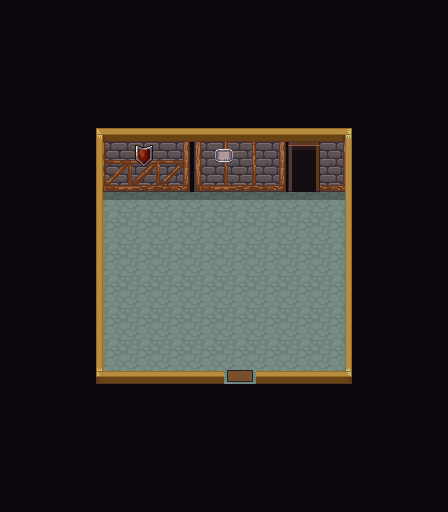
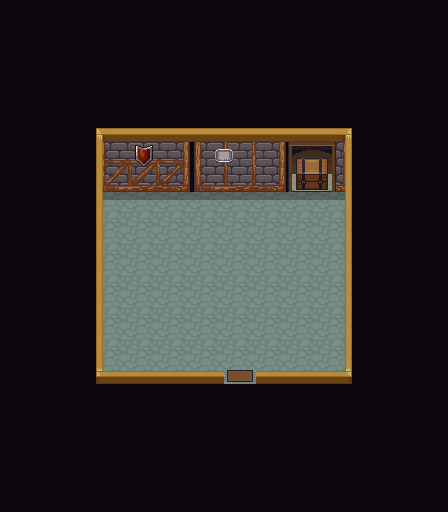
Sync from private repo

Changed region(s): [[0.625, 0.25, 0.75, 0.375]]

diff --git a/client/src/world/Town.js b/client/src/world/Town.js
@@ -56,6 +56,15 @@ export class Town {
         this.things = data.things.map(([frame, left, top, foot]) =>
             scene.add.image(left, top, `town-${key}-things`, String(frame)).setOrigin(0, 0).setData('foot', foot));
 
+        // Treasure seen through a doorway catches the light now and then
+        this.glints = scene.textures.exists('fx-star') ? (data.glints || []).map(([x, y], i) => {
+            const glint = scene.add.sprite(x, y, 'fx-star', 0).setDepth(DEPTH.features).setAlpha(0).setScale(1.5);
+            if (scene.anims.exists('fx-twinkle')) glint.play('fx-twinkle');
+            scene.tweens.add({ targets: glint, alpha: 1, scale: 2.2, duration: 240, hold: 160, yoyo: true,
+                repeat: -1, repeatDelay: 2400 + i * 500, delay: 700 });
+            return glint;
+        }) : [];
+
         this.folk = [];
         this._waterFrame = 0;
         this._waterTime = 0;
@@ -250,6 +259,7 @@ export class Town {
         this.water?.destroy();
         this.ground.destroy();
         this.things.forEach(t => t.destroy());
+        this.glints.forEach(g => g.destroy());
         this.folk.forEach(f => f.sprite.destroy());
         this.folk = [];
     }

diff --git a/client/tests/e2e/gear.spec.js b/client/tests/e2e/gear.spec.js
@@ -100,7 +100,7 @@ test.describe('Gear', () => {
         await enterWorld(page);
         await intoShop(page, 'riverhold-weapons', 'smith');
         await expect(page.locator('.gear-title')).toContainText('Weaponsmith');
-        await expect(page.locator('.gear-panel--shop .gear-row')).toHaveCount(6);
+        await expect(page.locator('.gear-panel--shop .gear-row')).toHaveCount(9);
         const before = await inv(page);
         expect(before.gold).toBe(100);           // a purse to start with
         // What a dagger costs this hero: its price, less (or more) for their charisma
@@ -153,7 +153,7 @@ test.describe('Gear', () => {
         test.setTimeout(150000);
         const { pages: [me, them], ids: [myId] } = await twoHeroes(browser);
         await intoShop(me, 'riverhold-apothecary', 'herbalist');
-        await expect(me.locator('.gear-panel--shop .gear-row')).toHaveCount(4);
+        await expect(me.locator('.gear-panel--shop .gear-row')).toHaveCount(6);
         await me.locator('.gear-row[data-item="ember-crystal"]').click();
         await me.locator('.gear-detail .gear-btn--go').click();
         await me.locator('.gear-close').click();

diff --git a/client/src/ui/gear/GearScreen.js b/client/src/ui/gear/GearScreen.js
@@ -398,7 +398,12 @@ export class GearScreen {
         right.addEventListener('click', () => turn(1));
         canvas.addEventListener('click', () => {
             const hero = this.hero();
-            this._pose = { anim: getRangedAnimation(hero) || getMeleeAnimation(hero), t: 0 };
+            // An attack drawn only in the sheet's oversized rows (a longsword's slash) is
+            // blank in the 64px ones this stage draws: swing one that isn't
+            const blanked = hero?.spriteMeta?.custom_animations?.blanked_animations || [];
+            const want = getRangedAnimation(hero) || getMeleeAnimation(hero);
+            const anim = [want, 'slash', 'thrust', 'shoot', 'spellcast'].find(a => !blanked.includes(a));
+            this._pose = { anim, t: 0 };
         });
         stage.append(el('div', 'gear-light'), canvas, left, right);
         if (this.inventory.busy) stage.append(el('div', 'gear-busy', { text: 'Changing…' }));

diff --git a/client/tests/e2e/town.spec.js b/client/tests/e2e/town.spec.js
@@ -231,6 +231,8 @@ test.describe('Riverhold', () => {
                 await gs.changeMap(shop, gs.cache.json.get(`town-${shop}`).arrive, 'up');
             }, shop);
             await expect.poll(() => where(page).then(w => w.town), { timeout: 15000 }).toBe(shop);
+            // Through the doorway, a chest catching the light now and then
+            expect(await page.evaluate(() => window.__PHASER_GAME.scene.getScene('GameScene').town.glints.length)).toBe(1);
             // Just below the doorway, then up through it
             const door = await page.evaluate((shop) => {
                 const gs = window.__PHASER_GAME.scene.getScene('GameScene');

diff --git a/README.md b/README.md
@@ -118,7 +118,7 @@ Real-time multiplayer via Socket.io. Players share one overworld, built from LPC
   - The town watch: twelve guards in one uniform (chainmail, a Norman helm, a spear and a tattered cloak; each with their own face) at the gate, round the square, at the healer's, the footbridge, the pier and the graveyard, three on patrol and one off duty at the inn
   - Story mode: walk into someone and the world waits while they speak, like a visual novel: their words, a line at a time, typed out in a box where the controls were, with their name, and above it, filling the screen, an anime-style painting of them where they stand, recoloured to match their sprite (AI-generated from their character data), or for anyone without one a crisp close-up of their own sprite. Space, Enter or a tap moves the story on; ◀ (or Backspace) goes back a line and LOG (or H) shows everything said so far; some ask you a question, answered Yes or No
   - Wren, an elf thief just inside Riverhold's gate, wants to get to Stonebridge but daren't travel the river road alone, and asks to come with you. She speaks: every line she says comes with a short voiced, animated clip of her saying it (AI-generated from her portrait), played over her painting as the line appears, and again if you go back to it
-  - Gold and gear: every hero sets out with a purse of 100 gold. Riverhold's Weaponsmith (dagger, iron sword, mace, spear, hunting bow, oak staff), Armourer (leather armour, chainmail, mail coif, iron helm, wooden and kite shields) and Apothecary (ember, frost, mending and spark crystals) sell from behind their counters (a doorway behind each counter leads to a back room where the stock is kept in treasure chests): talk to the keeper, hear them out, and say yes when they ask if you'd like to see their wares, and their shop opens, to buy or to sell back what you carry for about half its price, depending on your charisma. Equip shows your hero large on a lit stage (turn them round, tap them to see their weapon swing) with eight slots (weapon, shield, head, body, legs, feet, belt, crystal), each with a button to take off what's in it. All the clothing you set out in is your own gear, to take off or sell (ears, tails, wings and hoofs are part of your hero and stay): take it off (going without costs you 2 defence), or put on armour in its place; whatever you put on, your sprite is redrawn wearing it, for you and everyone near you. Items shows your bag. A two-handed weapon puts your shield away (and a shield a two-handed weapon), and you're told so. If your clothes can't make a weapon's move (a cleric's robe has no spear thrust), your hero attacks with a move they can make instead of vanishing. A crystal colours your spells, a ring and sparks of its colour that other players see too. Each piece shows what it adds to attack, defence or spell, against what you wear now. Gold, bag and gear are saved with your hero
+  - Gold and gear: every hero sets out with a purse of 100 gold. Riverhold's Weaponsmith (dagger, spear, oak staff, mace, hunting bow, iron sword, steel longsword, war axe, and a moonsteel blade), Armourer (mail coif, wooden shield, iron helm, leather armour, kite shield, chainmail, great helm, and plate armour) and Apothecary (ember, frost, mending and spark crystals, a dusk crystal, and the Heart of the Sun) sell, priced the way Ultima III did it: a few things a new hero can afford, some to save up for, and one far out of reach in every shop, and from behind their counters (a doorway behind each counter leads to a back room where the stock is kept in treasure chests; you can see one glinting through the doorway): talk to the keeper, hear them out, and say yes when they ask if you'd like to see their wares, and their shop opens, to buy or to sell back what you carry for about half its price, depending on your charisma. Equip shows your hero large on a lit stage (turn them round, tap them to see their weapon swing) with eight slots (weapon, shield, head, body, legs, feet, belt, crystal), each with a button to take off what's in it. All the clothing you set out in is your own gear, to take off or sell (ears, tails, wings and hoofs are part of your hero and stay): take it off (going without costs you 2 defence), or put on armour in its place; whatever you put on, your sprite is redrawn wearing it, for you and everyone near you. Items shows your bag. A two-handed weapon puts your shield away (and a shield a two-handed weapon), and you're told so. If your clothes can't make a weapon's move (a cleric's robe has no spear thrust), your hero attacks with a move they can make instead of vanishing. A crystal colours your spells, a ring and sparks of its colour that other players see too. Each piece shows what it adds to attack, defence or spell, against what you wear now. Gold, bag and gear are saved with your hero
   - Stats, in the style of Ultima III: level, hit points, magic points and experience; strength, dexterity, intelligence, wisdom and charisma, from your race (each race has its own strengths and how high each can grow) and your class; and the attack, defence and spell they come to with your gear on. Warriors and thieves have no magic points; mages cast from intelligence, clerics from wisdom, rangers from half their wisdom. Charisma gets you better prices: shopkeepers ask less and pay more for what you sell (and a hero with little charm pays a little more). Tap an attribute to see what it does
   - In a town or a room you see only the players who are there with you; walk out through the gate and you're back on the overworld
 - A galleon waits at anchor off the port: walk into it to board and it sails like a ship, turning toward where you steer, gathering speed slowly, coasting, riding the swell (it yaws, surges and pitches, so it never runs ruler-straight), with a V of foam behind it. Sail the sea to reach the islands and steer into land to step ashore; the ship waits where you leave it. Other players see your ship
